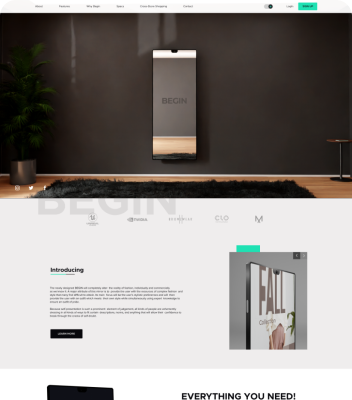
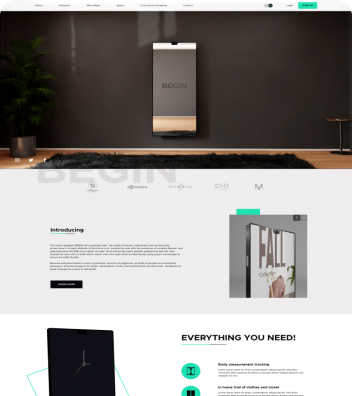
add small bugfix

diff --git a/src/components/Hero/index.module.css b/src/components/Hero/index.module.css
@@ -23,7 +23,7 @@
   text-transform: uppercase;
   color: #ffffff;
   margin-bottom: 24px;
-  width: 343px;
+  width: 309px;
   height: 80px;
 }
 .TitleText {
@@ -134,7 +134,7 @@
     background-position: left -17px top 197px, right -10px top 109px;
   }
   .HeroTitle {
-    width: 750px;
+    width: 709px;
     height: 168px;
     font-size: 64px;
     line-height: 1.3;
@@ -146,7 +146,7 @@
     filter: blur(200px);
   }
   .HeroAfterTitle {
-    width: 442px;
+    width: 390px;
     font-size: 14px;
     line-height: 1.7;
     color: #bcc9df;
@@ -175,7 +175,7 @@
     margin-bottom: 150px;
   }
   .HeroTitle {
-    width: 904px;
+    width: 704px;
     font-size: 72px;
     line-height: 1.16;
   }
@@ -184,7 +184,7 @@
     height: 686px;
   }
   .HeroAfterTitle {
-    width: 540px;
+    width: 500px;
     font-size: 18px;
     line-height: 1.5;
     color: #ffffff;

diff --git a/src/components/Portfolio/Portfolio.jsx b/src/components/Portfolio/Portfolio.jsx
@@ -8,7 +8,7 @@ import Filmoteka from '../../images/Rectangle 558.png';
 import Trandes_Mancheater from '../../images/Rectangle 559.png';
 import Begin_big from '../../images/Begin_big.png';
 import Icecream_big from '../../images/Icecream_big.jpg';
-import Pets_Paw_big from '../../images/Pets_Paw_big.png';
+import Petly_big from '../../images/Petly_big.png';
 import Molenhauer_big from '../../images/Molenhauer_big.png';
 import Trandes_Mancheater_big from '../../images/Trandes_Mancheater_big.png';
 import Filmoteka_big from '../../images/Filmoteka_big.jpg';
@@ -43,7 +43,7 @@ const photos = [
   },
   {
     src: Pets_Paw,
-    largeSrc: Pets_Paw_big,
+    largeSrc: Petly_big,
     href: 'https://pets-paw-intern.netlify.app/',
     width: 352,
     height: 422,

diff --git a/src/components/MobileNav/MobileNav.jsx b/src/components/MobileNav/MobileNav.jsx
@@ -5,6 +5,7 @@ import Nav from 'components/Nav/Nav';
 import { useState } from 'react';
 import s from './index.module.css';
 import { useTranslation } from 'react-i18next';
+import ButtonLanguage from 'components/ButtonLanguage/ButtonLanguage';
 
 export default function MobileNav({ isOpen, setOpen }) {
   const [showModal, setShowModal] = useState(false);
@@ -14,6 +15,7 @@ export default function MobileNav({ isOpen, setOpen }) {
       <BurgerMenuToggle isOpen={isOpen} toggle={() => setOpen(!isOpen)} />
       {isOpen && (
         <div className={s.navWrapper}>
+          <ButtonLanguage />
           <Nav toggle={() => setOpen(!isOpen)} />
           <Button
             onClick={() => {

diff --git a/src/components/Hero/Hero.jsx b/src/components/Hero/Hero.jsx
@@ -19,6 +19,7 @@ export default function Hero() {
           <h1 className={s.HeroTitle}>
             {t('Hero title')}{' '}
             <span className={s.TitleText}>{t('Hero title span')}</span>{' '}
+            <span className={s.HeroTitle}>{t('Hero title span1')}</span>{' '}
           </h1>
           <p className={s.HeroAfterTitle}>{t('Hero awterTitle')}</p>
           <Button

diff --git a/src/components/Form/Form.jsx b/src/components/Form/Form.jsx
@@ -123,7 +123,7 @@ export default function Form() {
         id="Message"
       />
       <button className={s.Submit} type="submit">
-        {t('Button')}
+        {t('Button small')}
       </button>
     </form>
   );

diff --git a/src/components/FormSection/index.module.css b/src/components/FormSection/index.module.css
@@ -100,7 +100,7 @@
 		line-height: 1.33;
 	}
 	.Line {
-		margin: 72px 0 36px;
+		margin: 50px 0 36px;
 	}
 	.Grey {
 		margin-bottom: 24px;
